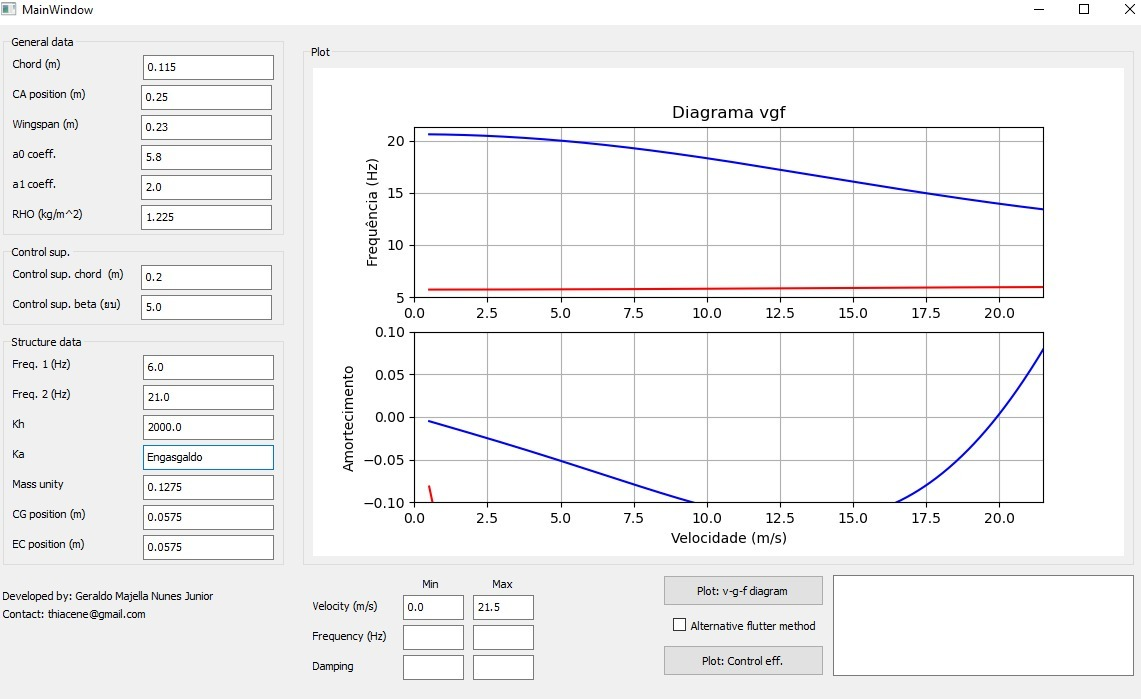
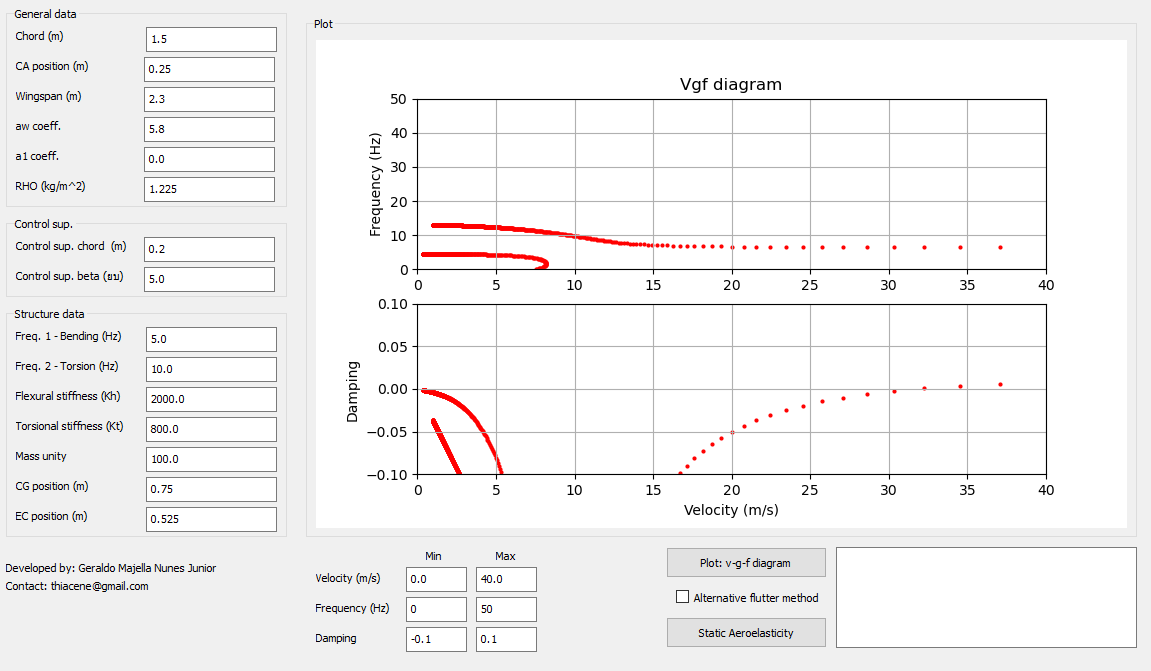
Add files via upload
arrumei uns negocio

diff --git a/aeroo2.py b/aeroo2.py
@@ -281,13 +281,13 @@ class Ui_MainWindow(object):
         self.label_23.setText(_translate("MainWindow", "Control sup. beta (ยบ)"))
         self.label_22.setText(_translate("MainWindow", "Control sup. chord  (m)"))
         self.groupBox_2.setTitle(_translate("MainWindow", "Structure data"))
-        self.label_11.setText(_translate("MainWindow", "Freq. 2 (Hz)"))
-        self.label_9.setText(_translate("MainWindow", "Freq. 1 (Hz)"))
+        self.label_11.setText(_translate("MainWindow", "Freq. 2 - Torsion (Hz)"))
+        self.label_9.setText(_translate("MainWindow", "Freq. 1 - Bending (Hz)"))
         self.label_14.setText(_translate("MainWindow", "CG position (m)"))
-        self.label_8.setText(_translate("MainWindow", "Ka"))
+        self.label_8.setText(_translate("MainWindow", "Torsional stiffness (Kt)"))
         self.label_18.setText(_translate("MainWindow", "Mass unity"))
         self.label_15.setText(_translate("MainWindow", "EC position (m)"))
-        self.label_10.setText(_translate("MainWindow", "Kh"))
+        self.label_10.setText(_translate("MainWindow", "Flexural stiffness (Kh)"))
         self.groupBox_4.setTitle(_translate("MainWindow", "General data"))
         self.label_7.setText(_translate("MainWindow", "RHO (kg/m^2)"))
         self.label_2.setText(_translate("MainWindow", "CA position (m)"))
@@ -296,7 +296,7 @@ class Ui_MainWindow(object):
         self.label_5.setText(_translate("MainWindow", "aw coeff."))
         self.label_4.setText(_translate("MainWindow", "Wingspan (m)"))
         self.pushButton.setText(_translate("MainWindow", "Plot: v-g-f diagram"))
-        self.pushButton_2.setText(_translate("MainWindow", "Plot: Control eff."))
+        self.pushButton_2.setText(_translate("MainWindow", "Static Aeroelasticity"))
         self.groupBox.setTitle(_translate("MainWindow", "Plot"))
         self.checkBox.setText(_translate("MainWindow", "Alternative flutter method"))
         self.label_24.setText(_translate("MainWindow", "Frequency (Hz)"))
@@ -338,7 +338,7 @@ class Ui_MainWindow(object):
                     self.velminN = 0
                     self.textEdit_axismin.insertPlainText(str(self.velminN))
 
-        try:
+        if True:
 
             self.A= [None] * 17
             self.A[0] = self.textEdit_1.toPlainText()
@@ -369,8 +369,8 @@ class Ui_MainWindow(object):
                 e = float(self.A[i])
                 fileID.write("%s \n" % str(e))
             self.plot(aaa)
-        except: 
-            pass
+        #except: 
+        #    pass
 
 
     def lig(self,a,x):
@@ -396,24 +396,24 @@ class Ui_MainWindow(object):
             if self.outro != 0:
                 self.vel, self.amort1, self.vel2, self.amort2,self.vel1, self.freq1, self.vel12, self.freq2 = t2Dsol.autovalorcomplex(self.B[13], self.B[14], self.B[2], self.B[5], self.B[0], self.B[12],self.B[8], self.B[9], self.B[16])
             else:
-                self.vel, self.amort1, self.vel2, self.amort2,self.vel1, self.freq1, self.vel12, self.freq2 = t2Dsol.nestacionario(self.B[13], self.B[14], self.B[2], self.B[5], self.B[0], self.B[12],self.B[8], self.B[9])
+                self.vel, self.amort1, self.vel2, self.amort2,self.vel1, self.freq1, self.vel12, self.freq2 = t2Dsol.nestacionario(self.B[13], self.B[14], self.B[2], self.B[5], self.B[0],self.B[8], self.B[9],self.B[10], self.B[11])
 
         
             self.vel11=copy.deepcopy(self.vel)
             #self.vel11.append(0)
             self.vel22=copy.deepcopy(self.vel2)
             #self.vel22.append(0)
-            self.ax.plot(self.vel,self.freq1, color='red')
-            self.ax.plot(self.vel2,self.freq2, color='blue')
+            self.ax.scatter(self.vel,self.freq1, color='red',s=4)
+            self.ax.scatter(self.vel2,self.freq2, color='red',s=4)
             self.ax.set_xlim(self.velminN,self.velmaxX)
             self.ax.set_ylim(self.freqminN,self.freqmaxX)
-            self.ax.set_ylabel('Frequência (Hz)')
-            self.ax.set_title('Diagrama vgf')
+            self.ax.set_ylabel('Frequency (Hz)')
+            self.ax.set_title('Vgf diagram')
             self.ax.grid()
-            self.ax2.plot(self.vel11[2:],self.amort1[2:],color='red')
-            self.ax2.plot(self.vel22[2:],self.amort2[2:],color='blue')
-            self.ax2.set_xlabel('Velocidade (m/s)')
-            self.ax2.set_ylabel('Amortecimento')
+            self.ax2.scatter(self.vel11[2:],self.amort1[2:],color='red',s=4)
+            self.ax2.scatter(self.vel22[2:],self.amort2[2:],color='red',s=4)
+            self.ax2.set_xlabel('Velocity (m/s)')
+            self.ax2.set_ylabel('Damping')
             self.ax2.grid()
             self.ax2.set_xlim(self.velminN,self.velmaxX)
             self.ax2.set_ylim(self.amortminX,self.amortmaxX)
@@ -430,11 +430,11 @@ class Ui_MainWindow(object):
             for i in range(len(eff)):
                 eff[i]=eff[i]*100
             self.ax.plot(vel, eff, color ='black')
-            self.ax.set_title('Eficiência de comandos')
+            self.ax.set_title('Command efficiency')
             self.ax.set_xlim(left=0,right=None)
             self.ax.set_ylim(0,100)
-            self.ax.set_xlabel('Velocidade (m/s)')
-            self.ax.set_ylabel('Eficiência (%)')
+            self.ax.set_xlabel('Velocity (m/s)')
+            self.ax.set_ylabel('Efficiency (%)')
             self.ax.set_xlim(self.velminN,self.velmaxX)
             self.ax.set_ylim(0,100)
             
@@ -442,8 +442,8 @@ class Ui_MainWindow(object):
             except: pass
             a=str("{:.2f}".format(U_rev))
             c=str("{:.2f}".format(U_div))
-            b = 'Velocidade de reversão de controle:'+' '+a+' '+'m/s'
-            d = 'Velocidade de divergência:'+' '+c+' '+'m/s'
+            b = 'Control reversal speed:'+' '+a+' '+'m/s'
+            d = 'Divergency speed:'+' '+c+' '+'m/s'
             self.textBrowser.append(b)
             self.textBrowser.append(d)
             self.ax.grid()
